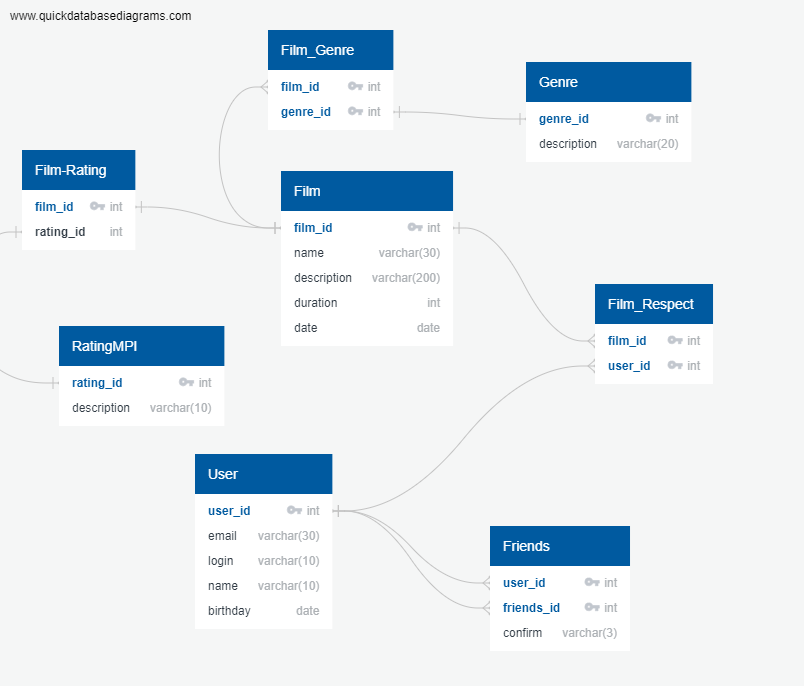
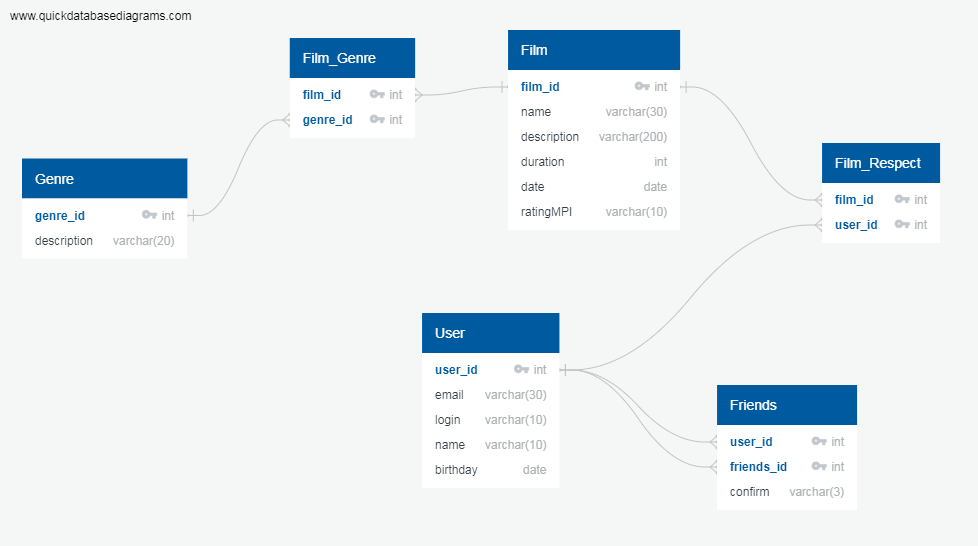
Style: правки по замечаниям ревьюера

diff --git a/README.md b/README.md
@@ -23,21 +23,7 @@ Film {
     String description
     int duration
     Date date
-    }
-    
-Film ||--|| Film_Rating : setFilmId
-    
-Film_Rating {
-    int film_id
-    int rating_id
-    }
-    
-    Film_Rating ||--|| RatingMPI : setRatingId
-    
-    
-RatingMPI {
-    int rating_id
-    String description
+    String ratingMPI
     }
     
 Film ||--o{ Film_Respect:setFilmId
